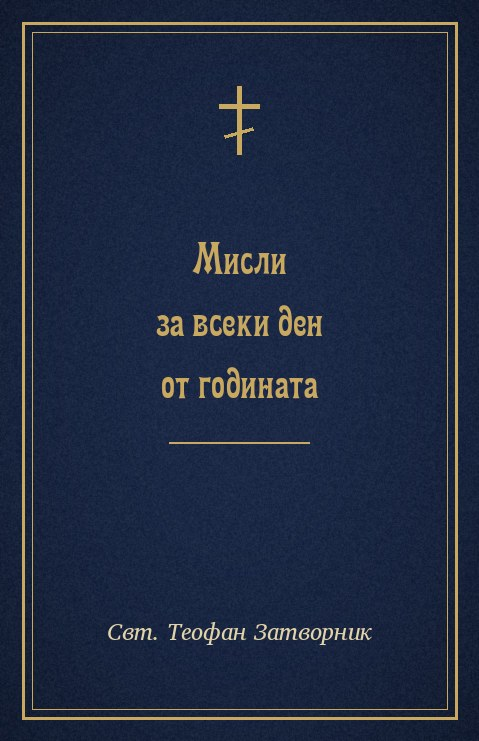
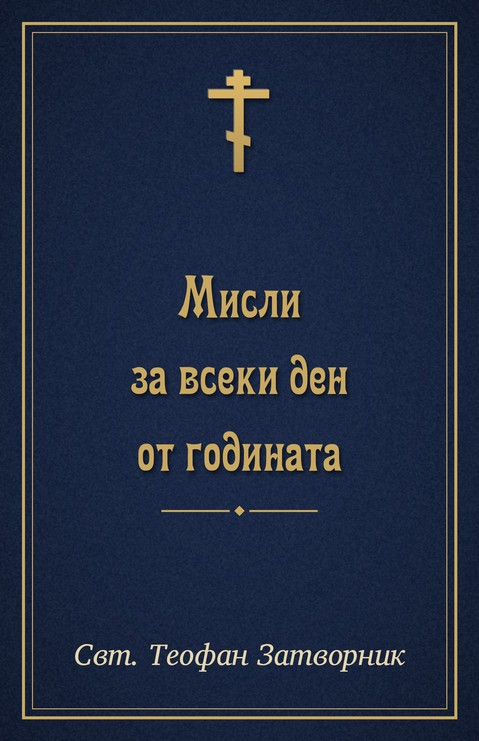
Читалня: кориците с православния кръст (cross.svg, щампован), по-едри шрифтове с мека сянка; „Изречения от Оптинските старци“
Claude-Session: https://claude.ai/code/session_018chDdeJrEXoRJXJRxE3sn2

diff --git a/lib/chitalnya_screen.dart b/lib/chitalnya_screen.dart
@@ -59,7 +59,7 @@ const List<ChitalnyaBook> kChitalnyaBooks = [
   ),
   ChitalnyaBook(
     'optina',
-    'Мисли на Оптинските старци',
+    'Изречения от Оптинските старци',
     'Прпп. Оптински старци',
     'Всички наставления на преподобните старци, подредени по темите на '
         '„Симфонията", както в оригинала.',

diff --git a/tools/chitalnya/scripts/03_covers.py b/tools/chitalnya/scripts/03_covers.py
@@ -8,12 +8,16 @@
 Подмяна: сложи свой .jpg със същото име и пусни наново 02_build_epubs.py.
 """
 import random
+import subprocess
+import tempfile
 from pathlib import Path
 
 from PIL import Image, ImageDraw, ImageFilter, ImageFont
 
 PROJ = Path(__file__).resolve().parents[3]
 FONTS = PROJ / 'assets' / 'fonts'
+CROSS_SVG = PROJ / 'assets' / 'icons' / 'cross.svg'
+SS = 3          # свръхдискретизация: рисува се три пъти по-едро и се смалява
 OUT = PROJ / 'assets' / 'chitalnya_covers'
 W, H = 479, 741
 GOLD = (201, 168, 96)
@@ -23,7 +27,7 @@ BOOKS = [
     ('debolsky', ['Дни', 'на богослужението'], 'Прот. Григорий Дебольски', (38, 62, 48)),
     ('zlatoust', ['Похвални слова', 'за светиите'], 'Свт. Йоан Златоуст', (92, 30, 32)),
     ('teofan', ['Мисли', 'за всеки ден', 'от годината'], 'Свт. Теофан Затворник', (28, 42, 72)),
-    ('optina', ['Мисли', 'на Оптинските', 'старци'], 'Прпп. Оптински старци', (70, 48, 30)),
+    ('optina', ['Изречения', 'от Оптинските', 'старци'], 'Прпп. Оптински старци', (70, 48, 30)),
 ]
 
 
@@ -41,34 +45,104 @@ def leather(base):
     return img.filter(ImageFilter.GaussianBlur(0.6))
 
 
-def centered(d, y, text, font, fill):
-    w = d.textlength(text, font=font)
-    d.text(((W - w) / 2, y), text, font=font, fill=fill)
+def cross_mask(height):
+    """Православният кръст (assets/icons/cross.svg) като маска — през Inkscape.
+
+    ⚠ PIL не чете SVG. Рисува се ЧЕРЕН на прозрачно и се ползва само алфата —
+    цветът и релефът се слагат тук, за да са еднакви с рамката.
+    """
+    with tempfile.TemporaryDirectory() as d:
+        png = Path(d) / 'c.png'
+        subprocess.run(['inkscape', str(CROSS_SVG), '--export-type=png',
+                        f'--export-filename={png}', f'--export-height={height}'],
+                       check=True, capture_output=True)
+        return Image.open(png).convert('RGBA').split()[3]
+
+
+def emboss(base, mask, xy, color):
+    """Позлатен отпечатък: тъмна вдлъбнатина отдолу-вдясно, светъл ръб
+    отгоре-вляво, после самото злато — като щамповано в подвързията."""
+    x, y = xy
+    shadow = Image.new('RGBA', mask.size, (0, 0, 0, 0))
+    shadow.putalpha(mask.point(lambda a: a * 0.55))
+    shadow = shadow.filter(ImageFilter.GaussianBlur(2 * SS))
+    base.alpha_composite(shadow, (x + 2 * SS, y + 3 * SS))
+    light = Image.new('RGBA', mask.size, (255, 236, 190, 0))
+    light.putalpha(mask.point(lambda a: a * 0.35))
+    base.alpha_composite(light, (x - SS, y - SS))
+    # Златото е с лек преход отгоре надолу — плоското изглежда като стикер.
+    w, h = mask.size
+    grad = Image.new('RGBA', (w, h))
+    gp = grad.load()
+    for yy in range(h):
+        t = yy / max(1, h - 1)
+        c = tuple(int(color[i] * (1.12 - 0.24 * t)) for i in range(3))
+        c = tuple(min(255, v) for v in c)
+        for xx in range(w):
+            gp[xx, yy] = c + (255,)
+    grad.putalpha(mask)
+    base.alpha_composite(grad, (x, y))
+
+
+def fit(d, lines, path, size, maxw):
+    """Най-едрият кегел до `size`, при който ВСЕКИ ред се побира в рамката."""
+    while size > 20:
+        f = ImageFont.truetype(str(path), size)
+        if all(d.textlength(t, font=f) <= maxw for t in lines):
+            return f
+        size -= 1
+    return ImageFont.truetype(str(path), size)
 
 
 def cover(code, lines, author, base):
-    img = leather(base)
-    d = ImageDraw.Draw(img)
+    big = leather(base).resize((W * SS, H * SS), Image.LANCZOS).convert('RGBA')
+    d = ImageDraw.Draw(big)
     # Двойна рамка.
     for m, wd in ((22, 3), (32, 1)):
-        d.rectangle([m, m, W - m, H - m], outline=GOLD, width=wd)
-    # Кръстче горе.
-    cx, cy = W // 2, 120
-    d.line([cx, cy - 34, cx, cy + 34], fill=GOLD, width=5)
-    d.line([cx - 20, cy - 14, cx + 20, cy - 14], fill=GOLD, width=5)
-    d.line([cx - 14, cy + 16, cx + 14, cy + 8], fill=GOLD, width=4)
-    title = ImageFont.truetype(str(FONTS / 'Tamburin Modern.ttf'), 46)
-    y = 260 - 28 * (len(lines) - 2)
+        d.rectangle([m * SS, m * SS, (W - m) * SS, (H - m) * SS],
+                    outline=GOLD, width=wd * SS)
+    # Кръстът — по-едър от досегашния, в горната трета.
+    cm = cross_mask(118 * SS)
+    emboss(big, cm, ((W * SS - cm.width) // 2, 62 * SS), GOLD)
+    # Заглавието — по-едро; кегелът се свива само ако ред не се побира.
+    inner = (W - 2 * 48) * SS
+    title = fit(d, lines, FONTS / 'Tamburin Modern.ttf', 60 * SS, inner)
+    step = int(title.size * 1.28)
+    block = step * (len(lines) - 1) + title.size
+    y = int(370 * SS - block / 2)
+    # ⚠ Сянката е на ОТДЕЛЕН слой и се смесва (alpha_composite). Нарисувана
+    # направо с полупрозрачен цвят, ImageDraw ПОДМЕНЯ пикселите вместо да ги
+    # смесва и буквите излизат с твърд черен контур.
+    shade = Image.new('RGBA', big.size, (0, 0, 0, 0))
+    sd = ImageDraw.Draw(shade)
+    y0 = y
     for ln in lines:
-        centered(d, y, ln, title, GOLD)
-        y += 62
-    # Орнаментална черта и авторът.
-    d.line([W / 2 - 70, y + 24, W / 2 + 70, y + 24], fill=GOLD, width=2)
-    au = ImageFont.truetype(str(FONTS / 'CharisSIL-Italic.ttf'), 24)
-    centered(d, H - 130, author, au, (226, 210, 170))
+        w = d.textlength(ln, font=title)
+        sd.text(((W * SS - w) / 2 + 2 * SS, y + 3 * SS), ln, font=title,
+                fill=(0, 0, 0, 140))
+        y += step
+    big.alpha_composite(shade.filter(ImageFilter.GaussianBlur(2 * SS)))
+    d = ImageDraw.Draw(big)
+    y = y0
+    for ln in lines:
+        w = d.textlength(ln, font=title)
+        d.text(((W * SS - w) / 2, y), ln, font=title, fill=GOLD + (255,))
+        y += step
+    # Орнаментална черта: по-къса от реда, с ромбче по средата.
+    ly = y - step + title.size + 34 * SS
+    cx = W * SS // 2
+    d.line([cx - 78 * SS, ly, cx - 10 * SS, ly], fill=GOLD, width=2 * SS)
+    d.line([cx + 10 * SS, ly, cx + 78 * SS, ly], fill=GOLD, width=2 * SS)
+    r = 5 * SS
+    d.polygon([(cx, ly - r), (cx + r, ly), (cx, ly + r), (cx - r, ly)], fill=GOLD)
+    # Авторът — по-едър курсив над долния ръб на рамката.
+    au = fit(d, [author], FONTS / 'CharisSIL-Italic.ttf', 30 * SS, inner)
+    w = d.textlength(author, font=au)
+    d.text(((W * SS - w) / 2, (H - 112) * SS), author, font=au, fill=(230, 214, 176))
+    img = big.convert('RGB').resize((W, H), Image.LANCZOS)
     OUT.mkdir(parents=True, exist_ok=True)
-    img.save(OUT / f'{code}.jpg', quality=88)
-    print('  ', code)
+    img.save(OUT / f'{code}.jpg', quality=90)
+    print('  ', code, 'кегел', title.size // SS)
 
 
 if __name__ == '__main__':

diff --git a/tools/chitalnya/scripts/02_build_epubs.py b/tools/chitalnya/scripts/02_build_epubs.py
@@ -194,7 +194,7 @@ def teofan():
 
 
 def optina():
-    b = Book('optina', 'Мисли на Оптинските старци', 'Прпп. Оптински старци')
+    b = Book('optina', 'Изречения от Оптинските старци', 'Прпп. Оптински старци')
     b.titlepage('По темите на „Симфония по творенията на преподобните Оптински старци"')
     con = sqlite3.connect(DB / 'optina.db')
     rows = con.execute('SELECT src_id, src_topic_ru, body FROM sayings').fetchall()
